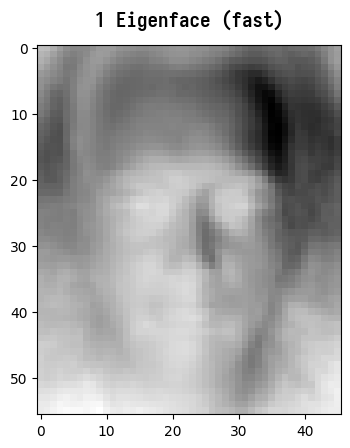
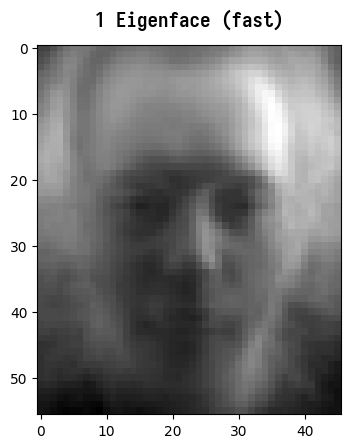
fixed random sign in eigenvector

diff --git a/Coursework1/code/main.py b/Coursework1/code/main.py
@@ -83,26 +83,46 @@ def face_recon(i, eival, eivec):
     M = [10, 50, 100, 200, 300, 400]
     pass
 
+def eig(M):
+    D, V = np.linalg.eigh(M)
+    '''
+    ascen_idx = D.argsort()
+    V = np.real_if_close(V[:, ascen_idx], tol=1)
+    D = D[ascen_idx]
+    '''
+    return D, V
+
 def train():
     mean = train_data.mean(axis=1)
     A = (train_data.T - mean.T).T
     N = A.shape[1]
 
-    eival_slow, eivec_slow = time_func("slow method", np.linalg.eigh, A @ A.T / N)
-    eival_fast, eivec_fast = time_func("fast method", np.linalg.eigh, A.T @ A / N)
+    eival_slow, eivec_slow = time_func("slow method", eig, (A @ A.T) / N)
+    eival_fast, eivec_fast = time_func("fast method", eig, (A.T @ A) / N)
+    eivec_fast_ = A @ eivec_fast
+    eivec_fast_ = eivec_fast_ / np.expand_dims(np.linalg.norm(eivec_fast_,axis=0), axis=0)
+
+    # fix the signs
+    eivec_slow  = eivec_slow *  (eivec_slow[0,:] / np.absolute(eivec_slow[0,:]))
+    eivec_fast_ = eivec_fast_ * (eivec_fast_[0,:] / np.absolute(eivec_fast_[0,:]))
+
     print("number of non-zero eigen values slow: ", np.sum(eival_slow > 1e-8))
     print("number of non-zero eigen values fast: ", np.sum(eival_fast > 1e-8))
     print(f"eigen value are same? {(eival_slow[-416:]-eival_fast < 1e-8).all()}")
 
-    return mean, A, eival_slow, eivec_slow, eival_fast, eivec_fast
+    return mean, A, eival_slow, eivec_slow, eival_fast, eivec_fast_
 
-# mean, A, eival_slow, eivec_slow, eival_fast, eivec_fast = train()
-'''
+mean, A, eival_slow, eivec_slow, eival_fast, eivec_fast = train()
+
+
 show_face(mean, "The Mean Face")
-for i in range(1, 4):
+for i in range(1, 7):
+    print(eivec_slow[:, -i])
+    print(eivec_fast[:, -i])
     show_face(eivec_slow[:, -i], f"{i} Eigenface (slow)")
-    show_face(A @ eivec_fast[:, -i], f"{i} Eigenface (fast)")
-'''
+    show_face(eivec_fast[:, -i], f"{i} Eigenface (fast)")
+
+
 def reconstruct_face (mean, phi_w, V):
     face = mean.copy()
     for i, eig in enumerate(V.T):
